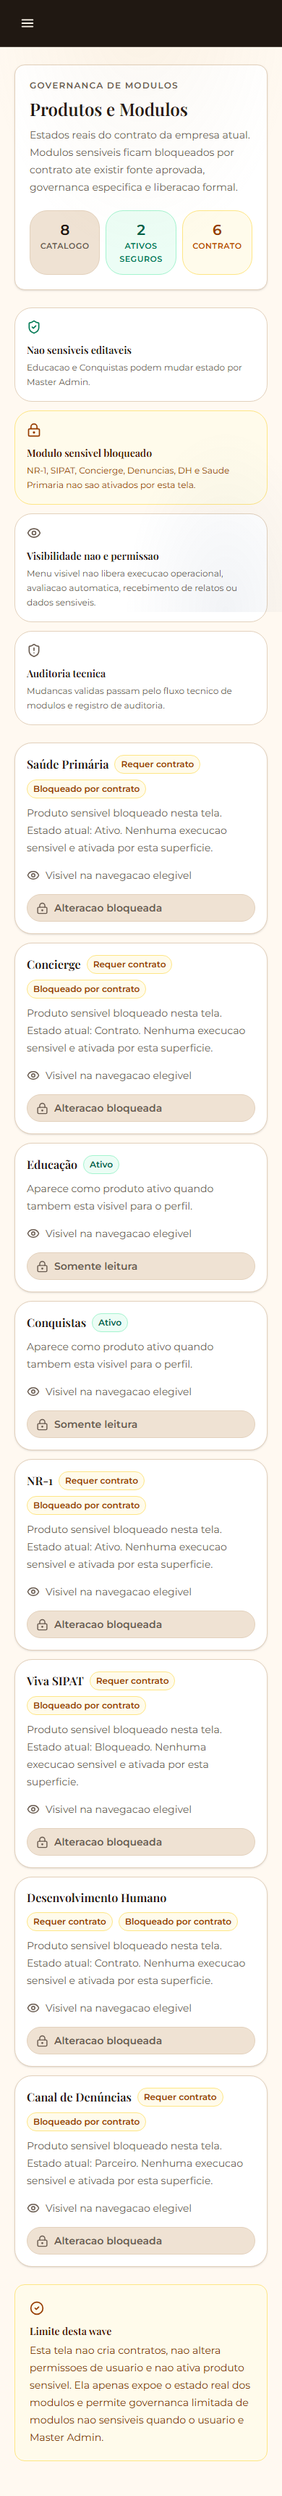
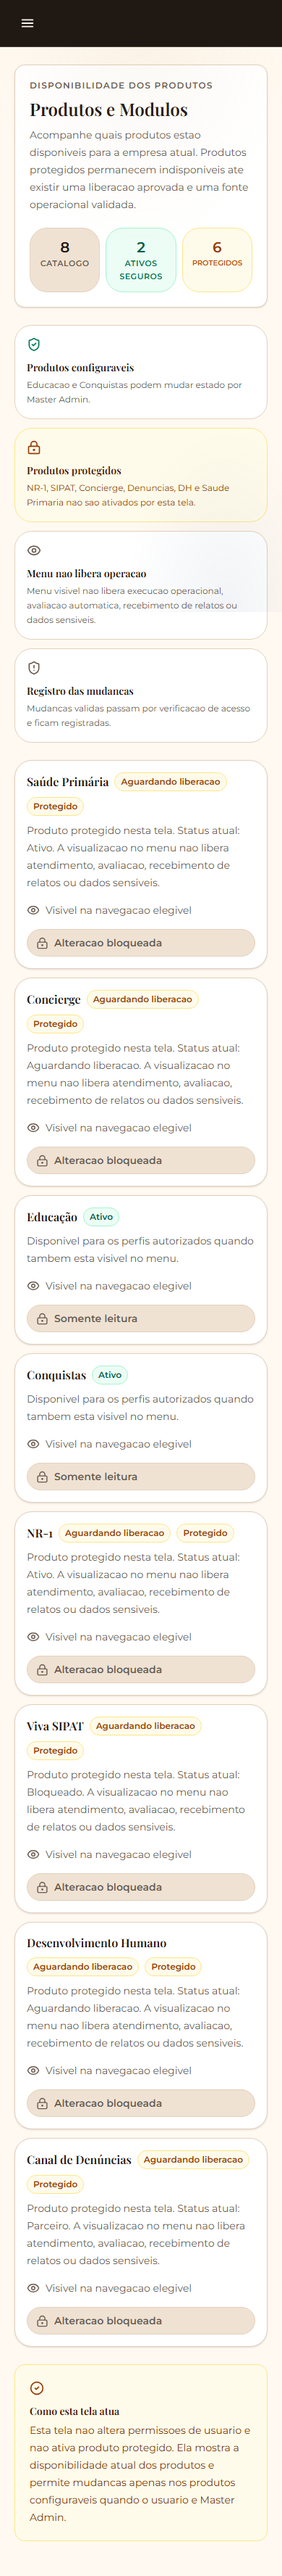
fix: remove authenticated product spec copy

Changed region(s): [[0.0923, 0.0, 0.9231, 0.9948]]

diff --git a/src/app/(platform)/produtos-modulos/page.tsx b/src/app/(platform)/produtos-modulos/page.tsx
@@ -28,17 +28,17 @@ const SENSITIVE_MODULE_SLUGS: readonly CompanyModuleSlug[] = [
 const STATE_LABELS: Record<CompanyModuleState, string> = {
   enabled: 'Ativo',
   locked: 'Bloqueado',
-  coming_soon: 'Em breve',
+  coming_soon: 'Planejado',
   partner_managed: 'Parceiro',
-  requires_contract: 'Contrato',
+  requires_contract: 'Aguardando liberacao',
 };
 
 const STATE_HELP: Record<CompanyModuleState, string> = {
-  enabled: 'Aparece como produto ativo quando tambem esta visivel para o perfil.',
-  locked: 'Existe no catalogo, mas nao executa fluxo operacional.',
-  coming_soon: 'Pode aparecer como roadmap sem liberar comportamento.',
-  partner_managed: 'Depende de parceiro, contrato e dados fora da operacao UniHER.',
-  requires_contract: 'Requer contrato, fonte ou decisao de governanca antes de ativar.',
+  enabled: 'Disponivel para os perfis autorizados quando tambem esta visivel no menu.',
+  locked: 'Produto indisponivel no momento, sem liberar fluxo operacional.',
+  coming_soon: 'Planejado para ativacao futura, sem liberar comportamento operacional.',
+  partner_managed: 'Atendimento conduzido com parceiro autorizado fora da operacao direta UniHER.',
+  requires_contract: 'Aguardando liberacao operacional aprovada antes de ativar.',
 };
 
 const NON_SENSITIVE_EDITABLE_STATES: readonly CompanyModuleState[] = [
@@ -109,7 +109,7 @@ export default function ProdutosModulosPage() {
   }
 
   if (authLoading || isLoading) {
-    return <FeedbackState kind="loading" title="Carregando modulos" description="Buscando o contrato de modulos da empresa autenticada." />;
+    return <FeedbackState kind="loading" title="Carregando produtos" description="Buscando a disponibilidade da empresa autenticada." />;
   }
 
   if (!user?.companyId) {
@@ -141,11 +141,11 @@ export default function ProdutosModulosPage() {
       <section className="rounded-[var(--platform-radius-surface)] border border-[var(--platform-line)] bg-[var(--platform-surface)] p-5 shadow-sm md:p-6">
         <div className="flex flex-col gap-5 lg:flex-row lg:items-start lg:justify-between">
           <div className="max-w-3xl space-y-2">
-            <p className="text-xs font-semibold uppercase tracking-widest text-[var(--platform-muted)]">Governanca de modulos</p>
+            <p className="text-xs font-semibold uppercase tracking-widest text-[var(--platform-muted)]">Disponibilidade dos produtos</p>
             <h1 className="text-2xl font-semibold text-[var(--platform-ink)]">Produtos e Modulos</h1>
             <p className="text-sm leading-6 text-[var(--platform-muted)]">
-              Estados reais do contrato da empresa atual. Modulos sensiveis ficam bloqueados por contrato ate existir fonte aprovada,
-              governanca especifica e liberacao formal.
+              Acompanhe quais produtos estao disponiveis para a empresa atual. Produtos protegidos permanecem indisponiveis ate
+              existir uma liberacao aprovada e uma fonte operacional validada.
             </p>
           </div>
 
@@ -160,7 +160,7 @@ export default function ProdutosModulosPage() {
             </div>
             <div className="rounded-lg border border-amber-200 bg-amber-50 px-3 py-3">
               <p className="text-xl font-semibold text-amber-800">{holdCount}</p>
-              <p className="text-[11px] font-semibold uppercase tracking-wider text-amber-700">Contrato</p>
+              <p className="text-[10px] font-semibold uppercase leading-4 text-amber-700">Protegidos</p>
             </div>
           </div>
         </div>
@@ -169,23 +169,23 @@ export default function ProdutosModulosPage() {
       <section className="grid gap-3 md:grid-cols-2 xl:grid-cols-4" aria-label="Guardrails de ativacao">
         <div className="rounded-lg border border-[var(--platform-line)] bg-[var(--platform-surface)] p-4">
           <ShieldCheck className="mb-3 text-emerald-700" size={20} aria-hidden="true" />
-          <h2 className="text-sm font-semibold text-[var(--platform-ink)]">Nao sensiveis editaveis</h2>
+          <h2 className="text-sm font-semibold text-[var(--platform-ink)]">Produtos configuraveis</h2>
           <p className="mt-1 text-xs leading-5 text-[var(--platform-muted)]">Educacao e Conquistas podem mudar estado por Master Admin.</p>
         </div>
         <div className="rounded-lg border border-amber-200 bg-amber-50 p-4">
           <LockKeyhole className="mb-3 text-amber-800" size={20} aria-hidden="true" />
-          <h2 className="text-sm font-semibold text-amber-950">Modulo sensivel bloqueado</h2>
+          <h2 className="text-sm font-semibold text-amber-950">Produtos protegidos</h2>
           <p className="mt-1 text-xs leading-5 text-amber-800">NR-1, SIPAT, Concierge, Denuncias, DH e Saude Primaria nao sao ativados por esta tela.</p>
         </div>
         <div className="rounded-lg border border-[var(--platform-line)] bg-[var(--platform-surface)] p-4">
           <Eye className="mb-3 text-[var(--platform-muted)]" size={20} aria-hidden="true" />
-          <h2 className="text-sm font-semibold text-[var(--platform-ink)]">Visibilidade nao e permissao</h2>
+          <h2 className="text-sm font-semibold text-[var(--platform-ink)]">Menu nao libera operacao</h2>
           <p className="mt-1 text-xs leading-5 text-[var(--platform-muted)]">Menu visivel nao libera execucao operacional, avaliacao automatica, recebimento de relatos ou dados sensiveis.</p>
         </div>
         <div className="rounded-lg border border-[var(--platform-line)] bg-[var(--platform-surface)] p-4">
           <ShieldAlert className="mb-3 text-[var(--platform-muted)]" size={20} aria-hidden="true" />
-          <h2 className="text-sm font-semibold text-[var(--platform-ink)]">Auditoria tecnica</h2>
-          <p className="mt-1 text-xs leading-5 text-[var(--platform-muted)]">Mudancas validas passam pelo fluxo tecnico de modulos e registro de auditoria.</p>
+          <h2 className="text-sm font-semibold text-[var(--platform-ink)]">Registro das mudancas</h2>
+          <p className="mt-1 text-xs leading-5 text-[var(--platform-muted)]">Mudancas validas passam por verificacao de acesso e ficam registradas.</p>
         </div>
       </section>
 
@@ -212,17 +212,17 @@ export default function ProdutosModulosPage() {
                 <div className="flex flex-wrap items-center gap-2">
                   <h2 className="text-base font-semibold text-[var(--platform-ink)]">{definition?.label ?? module.module_slug}</h2>
                   <span className={`rounded-full border px-2 py-1 text-xs font-semibold ${sensitive ? 'border-amber-200 bg-amber-50 text-amber-800' : stateTone(module.module_state)}`}>
-                    {sensitive ? 'Requer contrato' : STATE_LABELS[module.module_state]}
+                    {sensitive ? 'Aguardando liberacao' : STATE_LABELS[module.module_state]}
                   </span>
                   {sensitive && (
                     <span className="rounded-full border border-amber-200 bg-amber-50 px-2 py-1 text-xs font-semibold text-amber-800">
-                      Bloqueado por contrato
+                      Protegido
                     </span>
                   )}
                 </div>
                 <p className="text-sm leading-6 text-[var(--platform-muted)]">
                   {sensitive
-                    ? `Produto sensivel bloqueado nesta tela. Estado atual: ${STATE_LABELS[module.module_state]}. Nenhuma execucao sensivel e ativada por esta superficie.`
+                    ? `Produto protegido nesta tela. Status atual: ${STATE_LABELS[module.module_state]}. A visualizacao no menu nao libera atendimento, avaliacao, recebimento de relatos ou dados sensiveis.`
                     : STATE_HELP[module.module_state]}
                 </p>
               </div>
@@ -261,10 +261,10 @@ export default function ProdutosModulosPage() {
         <div className="flex flex-col gap-3 sm:flex-row sm:items-start">
           <CheckCircle2 className="mt-0.5 text-amber-800" size={20} aria-hidden="true" />
           <div className="space-y-1">
-            <h2 className="text-sm font-semibold text-amber-950">Limite desta wave</h2>
+            <h2 className="text-sm font-semibold text-amber-950">Como esta tela atua</h2>
             <p className="text-sm leading-6 text-amber-900">
-              Esta tela nao cria contratos, nao altera permissoes de usuario e nao ativa produto sensivel. Ela apenas expoe o estado real
-              dos modulos e permite governanca limitada de modulos nao sensiveis quando o usuario e Master Admin.
+              Esta tela nao altera permissoes de usuario e nao ativa produto protegido. Ela mostra a disponibilidade atual
+              dos produtos e permite mudancas apenas nos produtos configuraveis quando o usuario e Master Admin.
             </p>
           </div>
         </div>

diff --git a/tests/e2e/platform-product-boundary.spec.ts b/tests/e2e/platform-product-boundary.spec.ts
@@ -111,7 +111,7 @@ const safeUsefulRoutes = [
     role: 'rh',
     path: '/produtos-modulos',
     title: /Produtos e M.dulos/i,
-    anchors: [/Estados reais do contrato/i, /Bloqueado por contrato/i, /Nao sensiveis editaveis/i, /Auditoria tecnica/i],
+    anchors: [/Disponibilidade dos produtos/i, /Produtos protegidos/i, /Produtos configuraveis/i, /Registro das mudancas/i],
     blockedText: /Modulo sensivel em HOLD|Auditoria no backend|\bcompany_modules\b|\bruntime\b|\bscoring\b|\bintake\b|\bHOLD\b/i,
   },
   {
@@ -318,7 +318,7 @@ test.describe('Platform product boundary smoke', () => {
     await page.setViewportSize({ width: 1366, height: 900 });
     await page.goto('/produtos-modulos', { waitUntil: 'domcontentloaded' });
     await expect(page.getByRole('heading', { name: /Produtos e M.dulos/i })).toBeVisible();
-    await expectAnchors(page, [/Estados reais do contrato/i, /Bloqueado por contrato/i, /Auditoria tecnica/i]);
+    await expectAnchors(page, [/Disponibilidade dos produtos/i, /Produtos protegidos/i, /Registro das mudancas/i]);
     await expect(page.locator('body')).not.toContainText(/Modulo sensivel em HOLD|Auditoria no backend|\bcompany_modules\b|\bruntime\b|\bscoring\b|\bintake\b|\bHOLD\b/i);
     await expectNoUnsafeControlsOrClaims(page);
     await expectNoHorizontalOverflow(page);
@@ -327,7 +327,7 @@ test.describe('Platform product boundary smoke', () => {
     await page.setViewportSize({ width: 390, height: 844 });
     await page.goto('/produtos-modulos', { waitUntil: 'domcontentloaded' });
     await expect(page.getByRole('heading', { name: /Produtos e M.dulos/i })).toBeVisible();
-    await expectAnchors(page, [/Bloqueado por contrato/i, /Visibilidade nao e permissao/i]);
+    await expectAnchors(page, [/Produtos protegidos/i, /Menu nao libera operacao/i]);
     await expect(page.locator('body')).not.toContainText(/Modulo sensivel em HOLD|Auditoria no backend|\bcompany_modules\b|\bruntime\b|\bscoring\b|\bintake\b|\bHOLD\b/i);
     await expectNoUnsafeControlsOrClaims(page);
     await expectNoHorizontalOverflow(page);

diff --git a/src/components/community/management/CommunityPostEditor.tsx b/src/components/community/management/CommunityPostEditor.tsx
@@ -244,7 +244,7 @@ export function CommunityPostEditor({
         <aside aria-labelledby="community-preview-title" className="min-w-0 border-t border-[var(--platform-line)] bg-[color-mix(in_srgb,var(--platform-group)_35%,var(--platform-surface))] p-4 sm:p-5 xl:border-t-0">
           <div className="flex items-center gap-2 text-[var(--platform-action-strong)]">
             <Eye aria-hidden="true" className="h-4 w-4" />
-            <h3 id="community-preview-title" className="text-sm font-semibold">Prévia em texto simples</h3>
+            <h3 id="community-preview-title" className="text-sm font-semibold">Conferência editorial</h3>
           </div>
           <div className="mt-4 min-w-0 space-y-4">
             <div className="flex flex-wrap items-center gap-2 text-xs text-[var(--platform-muted)]">
@@ -257,7 +257,7 @@ export function CommunityPostEditor({
               <p className="mt-2 whitespace-pre-wrap break-words text-sm font-medium leading-6 text-[var(--platform-muted)]">{form.summary.trim() || 'O resumo aparecerá aqui.'}</p>
             </div>
             <div className="border-t border-[var(--platform-line)] pt-4">
-              <p className="whitespace-pre-wrap break-words text-sm leading-7 text-[var(--platform-ink)]">{form.bodyText || 'Escreva o conteúdo para visualizar a prévia.'}</p>
+              <p className="whitespace-pre-wrap break-words text-sm leading-7 text-[var(--platform-ink)]">{form.bodyText || 'Escreva o conteúdo para conferir a leitura antes de publicar.'}</p>
             </div>
             {form.imagePath.trim() && (
               <div className="flex min-w-0 items-start gap-2 border-t border-[var(--platform-line)] pt-4 text-xs text-[var(--platform-muted)]">

diff --git a/tests/unit/module-shells.test.ts b/tests/unit/module-shells.test.ts
@@ -150,8 +150,10 @@ describe('Paola P3 locked module shells', () => {
     expect(source).toContain('useSWR<CompanyModulesResponse>(modulesCacheKey, fetcher)');
     expect(source).toContain('/api/company/modules');
     expect(source).toContain('SENSITIVE_MODULE_SLUGS');
-    expect(source).toContain('Bloqueado por contrato');
-    expect(source).toContain('Auditoria tecnica');
+    expect(source).toContain('Produtos protegidos');
+    expect(source).toContain('Registro das mudancas');
+    expect(source).toContain('Como esta tela atua');
+    expect(source).not.toContain('Limite desta wave');
     expect(source).not.toContain('Modulo sensivel em HOLD');
     expect(source).not.toContain('Auditoria no backend');
     expect(source).not.toMatch(/\bcompany_modules\b/);

diff --git a/tests/unit/community-management-workspace.test.ts b/tests/unit/community-management-workspace.test.ts
@@ -107,3 +107,17 @@ describe('editorial workspace guard', () => {
     expect(guard.isCurrent(newDraft)).toBe(false);
   });
 });
+
+describe('editorial product copy boundary', () => {
+  it('uses operational review copy instead of visible preview jargon', () => {
+    const source = fs.readFileSync(
+      path.join(process.cwd(), 'src', 'components', 'community', 'management', 'CommunityPostEditor.tsx'),
+      'utf8',
+    );
+
+    expect(source).toContain('Conferência editorial');
+    expect(source).toContain('conferir a leitura antes de publicar');
+    expect(source).not.toContain('Prévia em texto simples');
+    expect(source).not.toContain('visualizar a prévia');
+  });
+});

diff --git a/tests/e2e/community-feed.spec.ts b/tests/e2e/community-feed.spec.ts
@@ -1047,7 +1047,7 @@ test.describe('company community feed', () => {
     await page.locator('#community-post-title').fill(browserTitle);
     await page.locator('#community-post-summary').fill(browserSummary);
     await page.locator('#community-post-body').fill(browserBody);
-    await expect(page.getByRole('heading', { name: 'Prévia em texto simples' })).toBeVisible();
+    await expect(page.getByRole('heading', { name: 'Conferência editorial' })).toBeVisible();
     await expect(
       page
         .locator('aside[aria-labelledby="community-preview-title"]')

diff --git a/docs/superpowers/audits/2026-07-30-uniher-authenticated-product-copy-wave.md b/docs/superpowers/audits/2026-07-30-uniher-authenticated-product-copy-wave.md
@@ -1,0 +1,54 @@
+## Decision
+PASS
+
+## Scope
+- Intent: continue authenticated UniHER recovery until rendered screens stop showing specs/placeholders when a real product surface exists.
+- Source of truth: current worktree, authenticated route code, focused unit/E2E checks, and generated screenshots.
+- Allowlist: authenticated platform product copy for `/comunidade/gerenciar` and `/produtos-modulos`; focused tests and route screenshots.
+- Denylist: public landing, public assets outside evidence, permission logic, sensitive module activation, NR-1/Yavix/COPSOQ runtime, Liga/rewards/ranking productization, Concierge/SIPAT/DH/Denuncias intake.
+
+## Changes
+- `src/components/community/management/CommunityPostEditor.tsx`
+  - Replaced visible preview wording with operational editorial review copy.
+- `src/app/(platform)/produtos-modulos/page.tsx`
+  - Replaced rendered wave/contract/governance jargon with product availability copy.
+  - Kept sensitive products protected and non-sensitive edits restricted to Master Admin.
+- `tests/unit/community-management-workspace.test.ts`
+  - Added a canary against old visible preview wording.
+- `tests/unit/module-shells.test.ts`
+  - Added a canary against `Limite desta wave` and updated expected product copy.
+- `tests/e2e/community-feed.spec.ts`
+  - Updated the editorial workflow heading expectation.
+- `tests/e2e/platform-product-boundary.spec.ts`
+  - Updated product-boundary anchors and screenshot smoke expectations.
+
+## Verification
+- `rg -n "Limite desta wave|Estados reais do contrato|Bloqueado por contrato|Auditoria tecnica|Governanca de modulos|Requer contrato|Previa em texto simples|visualizar a previa" ...`
+  - PASS: target rendered source old terms = 0.
+- `npx vitest run tests/unit/module-shells.test.ts tests/unit/company-modules.test.ts tests/unit/company-modules-api.test.ts tests/unit/community-management-workspace.test.ts tests/unit/community-management-page.test.tsx`
+  - PASS: 5 files, 40 tests.
+- `cd tests; npx playwright test --config=playwright.config.ts --project=community-feed --grep "browser covers RH management states"`
+  - PASS: 1 test, full editorial workflow.
+- `cd tests; npx playwright test --config=playwright.config.ts --project=platform-product-boundary --grep "RH visual smoke captures Produtos"`
+  - PASS: 1 test, desktop/mobile screenshots, no horizontal overflow.
+- `npx tsc --noEmit`
+  - PASS.
+- `git diff --check`
+  - PASS.
+- Landing guard:
+  - PASS: `landing_worktree_diff_count=0`.
+
+## Evidence
+- `docs/superpowers/evidence/produtos-modulos-ui-local-2026-07-30/desktop-1366-produtos-modulos.png`
+- `docs/superpowers/evidence/produtos-modulos-ui-local-2026-07-30/mobile-390-produtos-modulos.png`
+
+## Drift / Risk
+- Remaining rendered-copy gaps identified by the read-only sidecar:
+  - NR-1 collaborator journey still uses preview terminology when the preview env is enabled. Keep fail-closed until contract/source gates are proven.
+  - Objetivos, Desafios and Conquistas use safe but technical privacy/contract wording that should be rewritten as user-facing product copy.
+  - Navigation badges still include roadmap/contract-style states such as `Em breve` and `Contrato`.
+  - Gamification rewards/league components remain latent and must not be reintroduced as ranking/rewards product without explicit contract.
+
+## Next Wave
+- Smallest next step: rewrite Objetivos/Desafios/Conquistas and navigation badges from technical contract/privacy copy into product-language copy while preserving privacy and non-ranking gates.
+- Gate: focused source canaries, unit tests covering private gamification/product copy boundaries, visual smoke for affected routes, landing denylist diff count 0.
